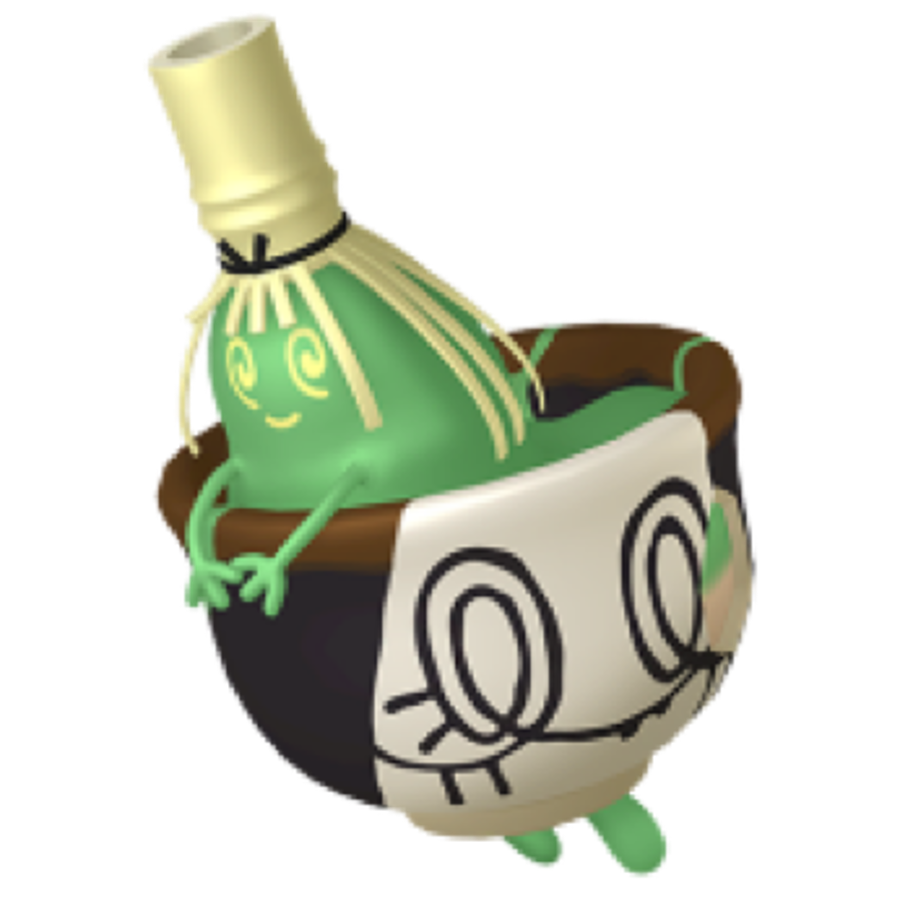
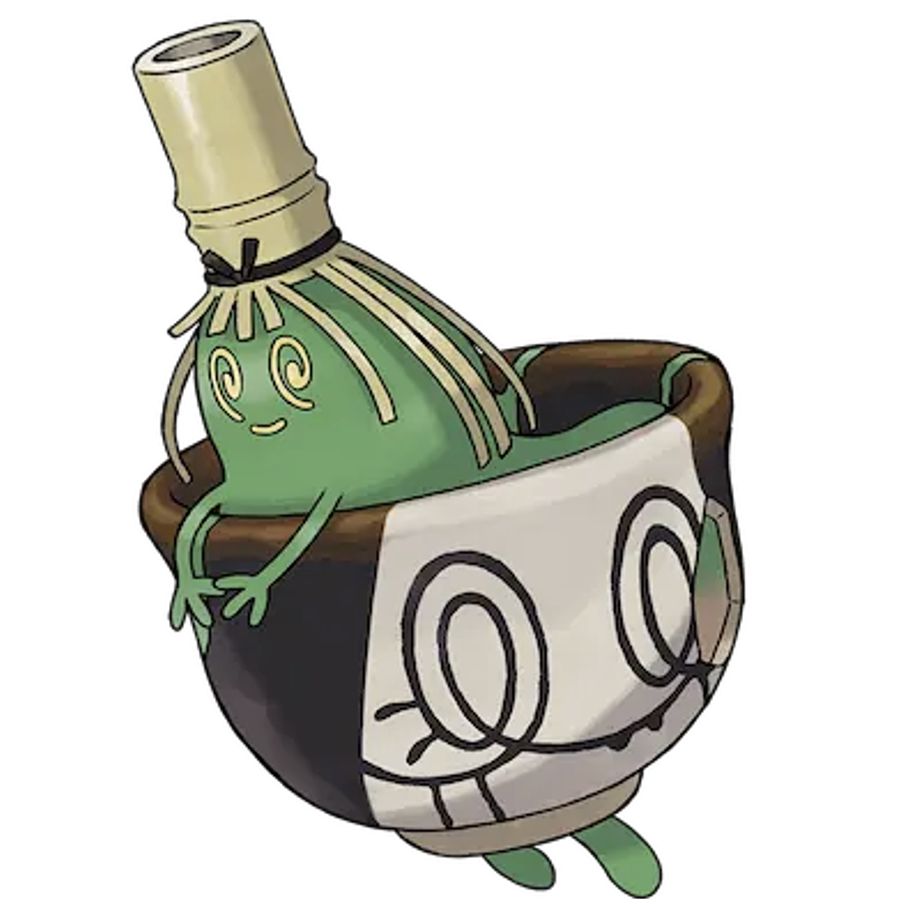
Added official art for Sinistcha and Bloodmoon Ursaluna

Changed region(s): [[0.1246, 0.0, 0.8409, 1.0]]

diff --git a/forms.js b/forms.js
@@ -10158,7 +10158,7 @@ let nationalDex = {
             dexEntry: "It crossed the sea and drifted ashore in a new land. Surviving in this place led it to take on a unique appearance and gain special powers.",
             cryUrl: "cries/901.mp3",
             ability: ["Mind's Eye"],
-            form: "Ursaluna (Bloodmoon Form)",
+            form: "Bloodmoon Ursaluna",
             formType: ["Variation"]
         },
         {
